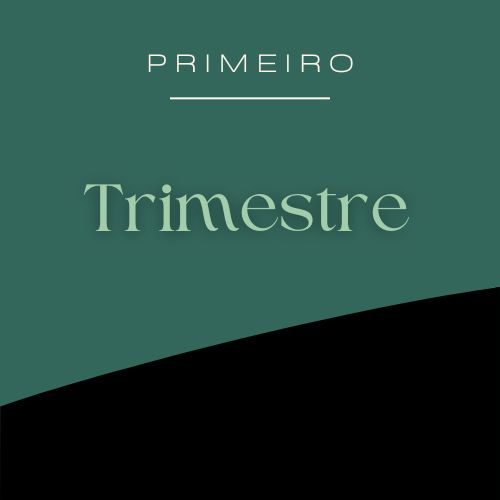
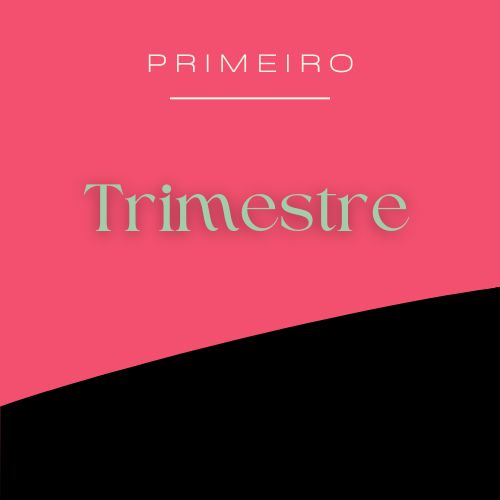
atualizando terceiro trimestre

diff --git a/index.html b/index.html
@@ -15,11 +15,10 @@
 
 <body>
     <div class="barrasuperior">
-      <a class="home" href="#"> <button class="home" onclick="home">𝗜𝗻𝗶𝗰𝗶𝗼</button></a>
-        <a  class="home" href="#sobre"><button class="home" onclick="sobre">𝗦𝗼𝗯𝗿𝗲</button></a>
-        <a class="home" href="#trimestres"><button class="home" onclick="primeiro">𝗧𝗿𝗶𝗺𝗲𝘀𝘁𝗿𝗲𝘀</button></a>
-        <a class="home" href="#projetos"><button class="home" onclick="projetos">𝗣𝗿𝗼𝗷𝗲𝘁𝗼𝘀</button></a>
-        <a class="home" href="#extras"><button class="home" onclick="extras">𝗘𝘅𝘁𝗿𝗮𝘀</button></a>
+      <a class="home" href="#"> <button class="home" onclick="home">𝗜𝗻𝗶𝗰𝗶𝗼 ✦</button></a>
+        <a  class="home" href="#sobre"><button class="home" onclick="sobre">𝗦𝗼𝗯𝗿𝗲 ✦</button></a>
+        <a class="home" href="#trimestres"><button class="home" onclick="primeiro">𝗧𝗿𝗶𝗺𝗲𝘀𝘁𝗿𝗲𝘀 ✦</button></a>
+        <a class="home" href="#extras"><button class="home" onclick="extras">𝗘𝘅𝘁𝗿𝗮𝘀 ✦</button></a>
     </div><br><br>
 
     <div class="titulos"><br><br>
@@ -37,7 +36,7 @@
             </div>
         </div>
         <svg xmlns="http://www.w3.org/2000/svg" viewBox="0 0 1440 318">
-            <path class="onda" fill="#053D38" fill-opacity="1"
+            <path class="onda" fill="#0D0D0D" fill-opacity="1"
                 d="M0,96L48,106.7C96,117,192,139,288,154.7C384,171,480,181,576,176C672,171,768,149,864,144C960,139,1056,149,1152,154.7C1248,160,1344,160,1392,160L1440,160L1440,320L1392,320C1344,320,1248,320,1152,320C1056,320,960,320,864,320C768,320,672,320,576,320C480,320,384,320,288,320C192,320,96,320,48,320L0,320Z">
             </path>
         </svg>
@@ -46,12 +45,8 @@
     <div id="sobre"  class="apresentacao"><br><br><br><br><br><br><br>
         <div class="fundo-apresentacao">
             <h4 class="quemsoueu"><br>Quem sou eu?</h4><br>
-            <p class="carta">&nbsp;&nbsp;Me chamo Luiza Maria Mauricio Fischer, tenho 17 anos e sou de Florianópolis.
-                Sou apaixonada por arte e design e estou pensando em seguir uma faculdade em TI ou Design Gráfico. 
-                Reconheço as vantagens de ambas as áreas, mas quero uma carreira que me permita ser criativa, inovadora e
-                ajudar a sociedade. Já participei de oficinas de desenho, fiz cursos de design e trabalhei em projetos sociais, 
-                o que me ajudou a me tornar dedicada, curiosa e com boa capacidade de aprendizado. Estou ansiosa para começar
-                meus estudos e me preparar para um futuro profissional empolgante e gratificante.</p>
+            <p class="carta">&nbsp;&nbsp;Eu sou a Luiza Fischer, tenho 17 anos e sou de Florianópolis. Sou apaixonada por arte, fotografia e design, e estou pensando em fazer faculdade de Design Gráfico. Quero seguir uma carreira que me dê liberdade para usar minha criatividade e que me permita conquistar minhas coisas, para que eu possa viajar e conhecer o mundo.
+            Já participei de várias oficinas de desenho, fiz cursos de design e trabalhei em projetos sociais. Essas experiências me tornaram mais dedicada, curiosa e me ajudaram a aprender muito. Estou super ansiosa para começar essa jornada nos estudos e me preparar para um futuro profissional que seja empolgante e gratificante!!</p>
         </div>
 
         <div id="luaz1"><img class="luaz2" src="./fotos/luaz.png" alt=""></div>
@@ -74,36 +69,24 @@
     </div>
     <div>
 
-        <div id="projetos" class="pageprojetos">
-            <br>
-            <h5 class="projetos"><br>✦ Projetos ✦</h5>
-            <h1 class="proj24">𝙽𝚊𝚝𝚞𝚛𝚎𝚣𝚊 - 𝙷𝚞𝚖𝚊𝚗𝚊𝚜 - 𝙻𝚒𝚗𝚐𝚞𝚊𝚐𝚎𝚗𝚜 - 𝙼𝚊𝚝𝚎𝚖𝚊́𝚝𝚒𝚌𝚊 - 𝚃𝚎́𝚌𝚗𝚒𝚌𝚘</h1>
-            <p>│Nada por enquanto│</p>
-            <br><br>
-            <div class="p123">
-                <a href=""><div class="projeto123"><br><img id="fotoproj123" src="./fotos/4.jpg" alt=""><br></div></a>
-                <a href=""><div class="projeto123"><br><img id="fotoproj123" src="./fotos/5.jpg" alt=""></div></a>
-                <a href=""><div class="projeto123"><br><img id="fotoproj123" src="./fotos/6.jpg" alt=""></div></a>
-            </div>
-        </div>
 
     <div class="pageextras">
         <h5 id="extras" class="extras"><br>✦ Extras ✦</h5><br><br><br>
         <div class="e123">
-            <a  href="https://www.canva.com/design/DAFPq2_DoFo/9DIAJFVCVYRLxnNya7bVyg/edit?utm_content=DAFPq2_DoFo&utm_campaign=designshare&utm_medium=link2&utm_source=sharebutton">
+            <a  href="https://www.canva.com/design/DAFPq2_DoFo/OUOlNURP5cwdpOJTYG6oDg/view?utm_content=DAFPq2_DoFo&utm_campaign=designshare&utm_medium=link&utm_source=editor">
                 <div class="portfolio2022"><br>Portfólio 2022<br></div>
             </a>
-            <a  href="https://www.canva.com/design/DAFerCv4pUY/mXIzG9xeFZSjMLu-tkKtlg/edit?utm_content=DAFerCv4pUY&utm_campaign=designshare&utm_medium=link2&utm_source=sharebutton">
+            <a  href="https://www.canva.com/design/DAFerCv4pUY/t8MIlk8I47UksA4rxNr6JA/view?utm_content=DAFerCv4pUY&utm_campaign=designshare&utm_medium=link&utm_source=editor">
                 <div class="portfolio2022"><br>Portfólio 2023<br></div>
             </a>
-            <a href="https://www.canva.com/design/DAGN8oiOPK4/S07shnFU2-bhSh1wPUSxhA/edit?utm_content=DAGN8oiOPK4&utm_campaign=designshare&utm_medium=link2&utm_source=sharebutton">
+            <a href="https://www.canva.com/design/DAGVhAhC5KI/aMn1nE19NK_tJKfSzeLJCw/view?utm_content=DAGVhAhC5KI&utm_campaign=designshare&utm_medium=link&utm_source=editor">
                 <div class="portfolio2022"><br> Certificados<br></div>
             </a>
-            <a href="https://www.canva.com/design/DAFbw-u1Zgw/-RH3tBp5cSRgzZuvRztzqQ/edit?utm_content=DAFbw-u1Zgw&utm_campaign=designshare&utm_medium=link2&utm_source=sharebutton">
+            <a href="https://www.canva.com/design/DAFbw-u1Zgw/ccPShrS_IdbfF8zUWASx_w/view?utm_content=DAFbw-u1Zgw&utm_campaign=designshare&utm_medium=link&utm_source=editor">
                 <div class="portfolio2022"><br>Curriculo<br></div>
             </a>
             <a href="https://www.canva.com/design/DAFbw-u1Zgw/-RH3tBp5cSRgzZuvRztzqQ/edit?utm_content=DAFbw-u1Zgw&utm_campaign=designshare&utm_medium=link2&utm_source=sharebutton">
-                <div class="portfolio2022"><br>PPE Natureza<br></div>
+                <div class="portfolio2022"><br>PPE <br> - Natureza<br></div>
             </a>
             
                 

diff --git a/style.css b/style.css
@@ -4,8 +4,8 @@ html{
    scroll-behavior: smooth;
 
 }
-body{
-   background-color: #A3CCAB;
+body{/*primeiro fundo*/
+   background-color:#565959;
    min-width: 100vw;
    min-height: 100%;
    overflow-x:hidden ;
@@ -51,7 +51,7 @@ body{
     z-index: 30;
     position: fixed;
     top: 0;
-    background-color:#022859;
+    background-color:#F2506E;
     height: 70px;
     width: 100%;
     text-align: center;
@@ -67,17 +67,17 @@ body{
     padding: 0;
     margin: 0   ;
 }
-.home:hover{
+.home:hover{ /*botoes barra superior*/
     color: #9fddab;
     cursor: pointer ;
 }
 .home a, .home button {
     height: 100%;
 }
-button{
+button{ /*botoes barra superior*/
     text-align: center;
     font-size: 35px;
-    background-color:#022859;
+    background-color: #F2506E;;
     border: none;
     color: antiquewhite;
     letter-spacing: 2px;
@@ -92,7 +92,7 @@ h1{  /*Portfólio*/
 }
 h2{  /*Luiza Fischer*/
     text-align: center;
-    color: #022859;
+    color: #ee768c;
     font-size: 99px;
     font-family: "Cinzel Decorative", serif;
     font-weight: 700;
@@ -100,7 +100,7 @@ h2{  /*Luiza Fischer*/
     width: max-content;
     padding-top: 0;
     height: max-content;
-    text-shadow: #ffffff46  0.1em 0.1em 0.2em;
+    text-shadow: #5e5c5c8e  0.1em 0.1em 0.2em;
     height: 99px;
 }
 h3{ /*Terceirão A - 2024*/
@@ -126,8 +126,8 @@ p{
     font-size: 17px;
     margin-left: 50px;
 }
-.apresentacao{
-    background-color:#053D38;
+.apresentacao{ /*primeiro fundo*/
+    background-color:#0D0D0D;
     font-family: "Rubik", sans-serif;
     font-weight: weight;
     font-style: normal;
@@ -138,15 +138,15 @@ p{
 .quemsoueu{
     color: #ffffff;
 }
-.fundo-apresentacao{
-    background-color: #34675C;
+.fundo-apresentacao{ 
+    background-color: #F2506E;
     width: 450px;
     height: 430px;
     text-align: center;
     border-radius: 20px;
     margin-left: 130px;
     border-radius:0px 30px 0px 30px;
-    box-shadow: 10px 10px 10px 5px  #ffffff54;
+    box-shadow: 10px 12px #a3ccab;
 }
 .carta{
     width: 370px;
@@ -165,8 +165,8 @@ p{
     margin-top: 178px;
     animation: go-back 3s infinite alternate;
 }
-.quadrado-fundo{
-    background-color: #8fb697;
+.quadrado-fundo{  /*div de tras da minha foto*/
+    background-color: #ee768c;
     color: #ffffff00;
     width: 370px;
     border-width: 40px;
@@ -175,11 +175,10 @@ p{
     margin-left: 59.7%;
     margin-top: 0.5%;
     position: absolute;
-    box-shadow: 10px 10px 10px 5px  #ffffff44;
     animation: go-back 3s infinite alternate;
 }
-.fotinha{
-    background-color: #34675C;
+.fotinha{  /*minha foto na div*/
+    background-color: #F2506E;
     width: 330px;
     border-width: 30px;
     height: 398px;
@@ -204,7 +203,7 @@ p{
     }
   }
 .pagetrimestres{ /*pagina de trimestres*/
-    background-color: #A3CCAB;
+    background-color: #0D0D0D;
     text-align: center;
     font-weight: weight;
     font-style: normal;
@@ -213,12 +212,12 @@ p{
 }
 .trimestres24{  /*pagina de trimestres*/
     font-size: 45px;
-    color: #ffffff;
+    color: #a3ccab;
      font-family: "Cinzel Decorative", serif;
     font-weight: 700;
     font-style: normal;
 }
-.t123{
+.t123{  /*pagina de trimestres*/
     text-align: center;
     justify-content: center;
     display: flex;
@@ -227,42 +226,13 @@ p{
     justify-content: space-around;
 
 }
-.primeiro{
-    background-color: #FA7F08;
-    margin-left: 50px;
-    width: 360px;
-    height: 370px;
-    box-shadow: 10px 10px 10px 5px #9ef8ee8a;
-    border-radius:0px 30px 0px 0px;
-     font-size: 27px;
-    color: #71063f;
-}
-#foto123{ 
+#foto123{  /*pagina de trimestres*/
     object-fit: contain;
     width: 485px;
     height: 340px;
     
 }
-
-.pageprojetos{ 
-    background-color:#8fb697;
-    text-align: center;
-    font-weight: weight;
-    font-style: normal;
-    height: 700px;
-}
-.projetos{  
-    font-size: 45px;
-    color:#ffffff;
-     font-family: "Cinzel Decorative", serif;
-    font-weight: 700;
-   
-    font-style: normal;
-}
-.proj24{  
-    color: #ffffff;
-}
-.p123{  
+.p123{   /*pagina de trimestres*/
     text-align: center;
     justify-content: center;
     display: flex;
@@ -270,30 +240,31 @@ p{
     flex-direction: row;
     justify-content: space-around;
 } 
-#fotoproj123{ 
+#fotoproj123{   /*pagina de trimestres*/
     background-color: #22BABB;
     margin-left: 50px;
     width: 360px;
     height: 370px;
-    box-shadow: 10px 10px 10px 5px #ffffff33;
+    box-shadow: 10px 12px #a3ccab;
     border-radius:0px 30px 0px 0px;
      font-size: 27px;
     color: #ffffff;
 }
 .pageextras{
     width: 100%;
-    background-color: #053D38;
+    background-color: #F2506E;
     font-weight: weight;
     font-style: normal;
     height: 580px;
 }
 .extras{ 
     font-size: 45px;
-    color: #ffffff;
+    color: #9fddab;
      font-family: "Cinzel Decorative", serif;
     font-weight: 700;
     font-style: normal;
     text-align: center;
+
 }
 .e123{  
     display: flex;
@@ -303,17 +274,18 @@ p{
     justify-content: space-around;
     flex-wrap: wrap;
     margin: auto;
+  
 } 
 .portfolio2022{  
     margin: auto;
-    background-color: #A3CCAB;
+    background-color: #1A1E1D;
     width: 230px;
     height: 200px;
-    
     border-radius:0px 90px 0px 30px;
      font-size: 27px;
     color: #ffffff;
     text-align: center;
+    box-shadow: 10px 12px #a3ccab;
 }
 a{
     text-decoration: none;
@@ -333,8 +305,8 @@ a{
     background-color: #9ef8ee00;
     transition: 1s;
 }
-#fundo-social{
-    background-color: #022859;
+#fundo-social{  /*fundo do botao social*/
+    background-color: #a3ccab;;
     border-radius: 45px;
     width: 570px;
     margin: auto;
